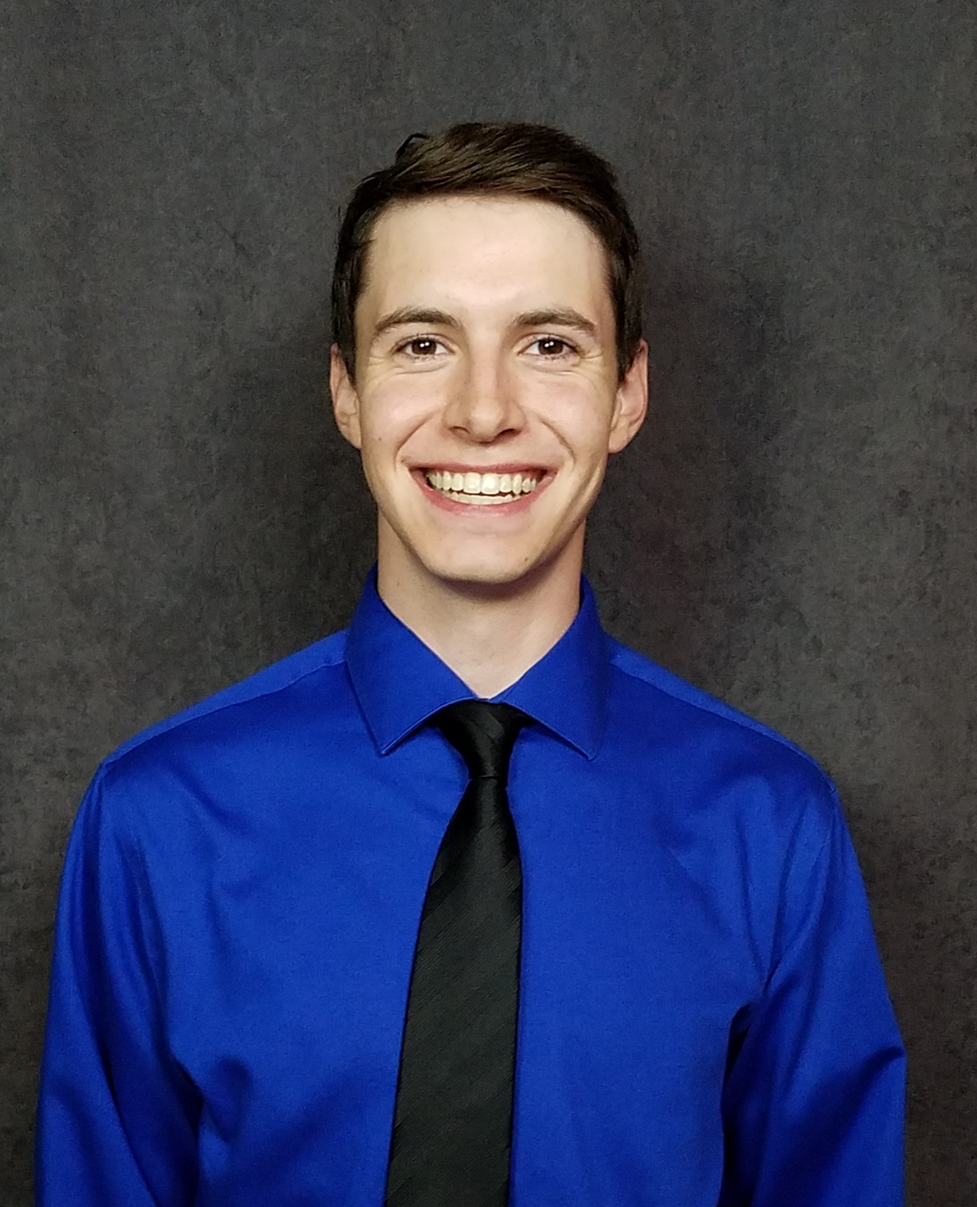
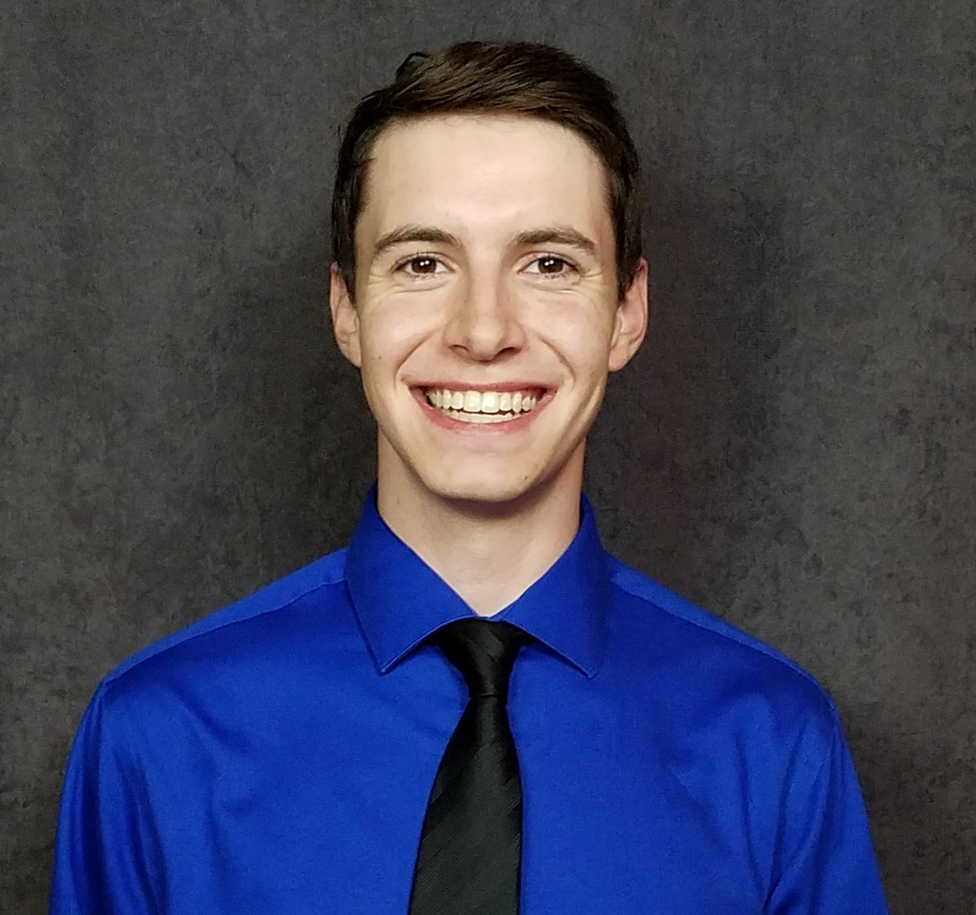
Hoping to fix headers

Changed region(s): [[0.0, 0.0308, 1.0, 1.0], [0.6782, 0.8008, 0.7091, 0.8316]]

diff --git a/index.html b/index.html
@@ -13,9 +13,9 @@
 </head>
 <body>
 
-  <div class="sideMenu" id="SideMenu">
-    <h1><a href="josh-beck.github.io"> Joshua Beck </a></h1>
-		<img src="./Pictures/JoshuaBeckHeadshot.jpg" alt="Joshua Beck Photo" style="padding-top:0%; padding-bottom:5%; max-width:85%;"/>
+  <div class="sideMenu">
+    <h1><a href="https://josh-beck.github.io/"> Joshua Beck </a></h1>
+		<img src="./Pictures/JoshuaBeckHeadshot.jpg" alt="Joshua Beck Photo" style="padding-top:0%; padding-bottom:5%; max-width:70%;"/>
 		<h3>Fields of Study:</h3>
     <span>Mechanical Engineering</span><br>
     <span>Computer Science</span>

diff --git a/styles.css b/styles.css
@@ -17,7 +17,7 @@
 		padding: 0%;
 		margin: 0%;
 	}
-	
+
 	img {
 		border-radius: 25px;
 		max-width: 100%;
